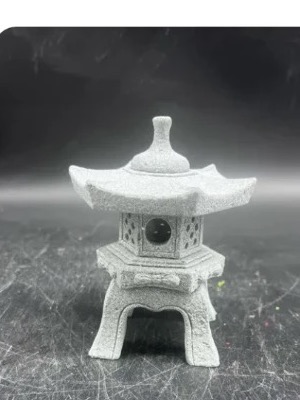
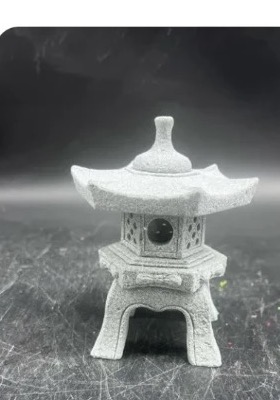
Galerie 3 photos dans le modal boutique + lanterne mise à jour
Ajoute une bande de miniatures cliquables en bas de l'image
principale dans le modal produit. La lanterne japonaise en grès
passe de 1 à 3 photos.

diff --git a/boutique.html b/boutique.html
@@ -6,7 +6,7 @@
 <title>Boutique — Midori Minichua</title>
 <link rel="preconnect" href="https://fonts.googleapis.com">
 <link href="https://fonts.googleapis.com/css2?family=Noto+Serif+JP:wght@300;400;500&family=Shippori+Mincho:wght@400;500;600&family=Inter:wght@300;400;500&display=swap" rel="stylesheet">
-<link rel="stylesheet" href="css/bonsai.css?v=5">
+<link rel="stylesheet" href="css/bonsai.css?v=6">
 </head>
 <body>
 
@@ -36,7 +36,10 @@
 <!-- PRODUCT MODAL -->
 <div class="modal-overlay" id="modalOverlay">
   <div class="modal">
-    <div class="modal-img"><img id="modalImg" src="" alt=""></div>
+    <div class="modal-img">
+      <img id="modalImg" src="" alt="">
+      <div class="modal-thumbs" id="modalThumbs"></div>
+    </div>
     <div class="modal-content">
       <button class="modal-close" onclick="closeModal()">✕</button>
       <div class="modal-species" id="modalSpecies"></div>
@@ -145,6 +148,7 @@ const products = [
     tag: "Nouveau",
     category: "accessoire",
     img: "img/lanterne-japonaise-gres.jpg",
+    imgs: ["img/lanterne-japonaise-gres.jpg", "img/lanterne-japonaise-gres-2.jpg", "img/lanterne-japonaise-gres-3.jpg"],
     tags: ["Grès", "Fait main", "Zen"],
     desc: "Lanterne jardin japonaise 8 cm de haut en grès, idéale pour micro jardin zen, bonsaï ou fontaine. État neuf. Livraison dès 4,99 € ou remise en main propre à Saint-Genis-Laval."
   }
@@ -189,8 +193,21 @@ function filterProducts(cat, btn) {
 
 function openModal(id) {
   const p = products.find(x => x.id === id);
-  document.getElementById('modalImg').src = p.img;
-  document.getElementById('modalImg').alt = p.name;
+  const imgs = p.imgs && p.imgs.length ? p.imgs : [p.img];
+  const mainImg = document.getElementById('modalImg');
+  mainImg.src = imgs[0];
+  mainImg.alt = p.name;
+  // Thumbnails
+  const thumbsEl = document.getElementById('modalThumbs');
+  if (imgs.length > 1) {
+    thumbsEl.innerHTML = imgs.map((src, i) =>
+      `<img src="${src}" class="${i===0?'active':''}" onclick="switchModalImg(this,'${src}')">`
+    ).join('');
+    thumbsEl.style.display = 'flex';
+  } else {
+    thumbsEl.innerHTML = '';
+    thumbsEl.style.display = 'none';
+  }
   document.getElementById('modalSpecies').textContent = p.species;
   document.getElementById('modalName').textContent = p.name;
   document.getElementById('modalAge').textContent = p.age;
@@ -200,6 +217,11 @@ function openModal(id) {
   document.getElementById('modalAddBtn').onclick = () => { addToCart(id); closeModal(); };
   document.getElementById('modalOverlay').classList.add('open');
   document.body.style.overflow = 'hidden';
+}
+function switchModalImg(thumb, src) {
+  document.getElementById('modalImg').src = src;
+  document.querySelectorAll('#modalThumbs img').forEach(t => t.classList.remove('active'));
+  thumb.classList.add('active');
 }
 function closeModal() { document.getElementById('modalOverlay').classList.remove('open'); document.body.style.overflow = ''; }
 document.getElementById('modalOverlay').addEventListener('click', e => { if(e.target===e.currentTarget) closeModal(); });

diff --git a/css/bonsai.css b/css/bonsai.css
@@ -310,8 +310,11 @@ nav a.active::after { width: 100%; }
 .modal-overlay { display: none; position: fixed; inset: 0; background: rgba(26,26,24,0.6); z-index: 200; backdrop-filter: blur(4px); align-items: center; justify-content: center; padding: 24px; }
 .modal-overlay.open { display: flex; }
 .modal { background: var(--white); max-width: 860px; width: 100%; display: grid; grid-template-columns: 1fr 1fr; max-height: 90vh; overflow-y: auto; }
-.modal-img { aspect-ratio: 3/4; overflow: hidden; background: #111; }
-.modal-img img { width: 100%; height: 100%; object-fit: contain; }
+.modal-img { aspect-ratio: 3/4; overflow: hidden; background: #111; display: flex; flex-direction: column; }
+.modal-img img { flex: 1; width: 100%; min-height: 0; object-fit: contain; }
+.modal-thumbs { display: flex; gap: 6px; padding: 8px; background: #0d0d0d; }
+.modal-thumbs img { width: 52px; height: 52px; object-fit: cover; cursor: pointer; border-radius: 3px; opacity: 0.55; border: 2px solid transparent; transition: opacity 0.15s, border-color 0.15s; }
+.modal-thumbs img.active, .modal-thumbs img:hover { opacity: 1; border-color: rgba(255,255,255,0.5); }
 .modal-content { padding: 48px 40px; display: flex; flex-direction: column; }
 .modal-close { align-self: flex-end; background: none; border: none; cursor: pointer; font-size: 22px; color: var(--stone); margin-bottom: 24px; transition: color 0.2s; }
 .modal-close:hover { color: var(--ink); }